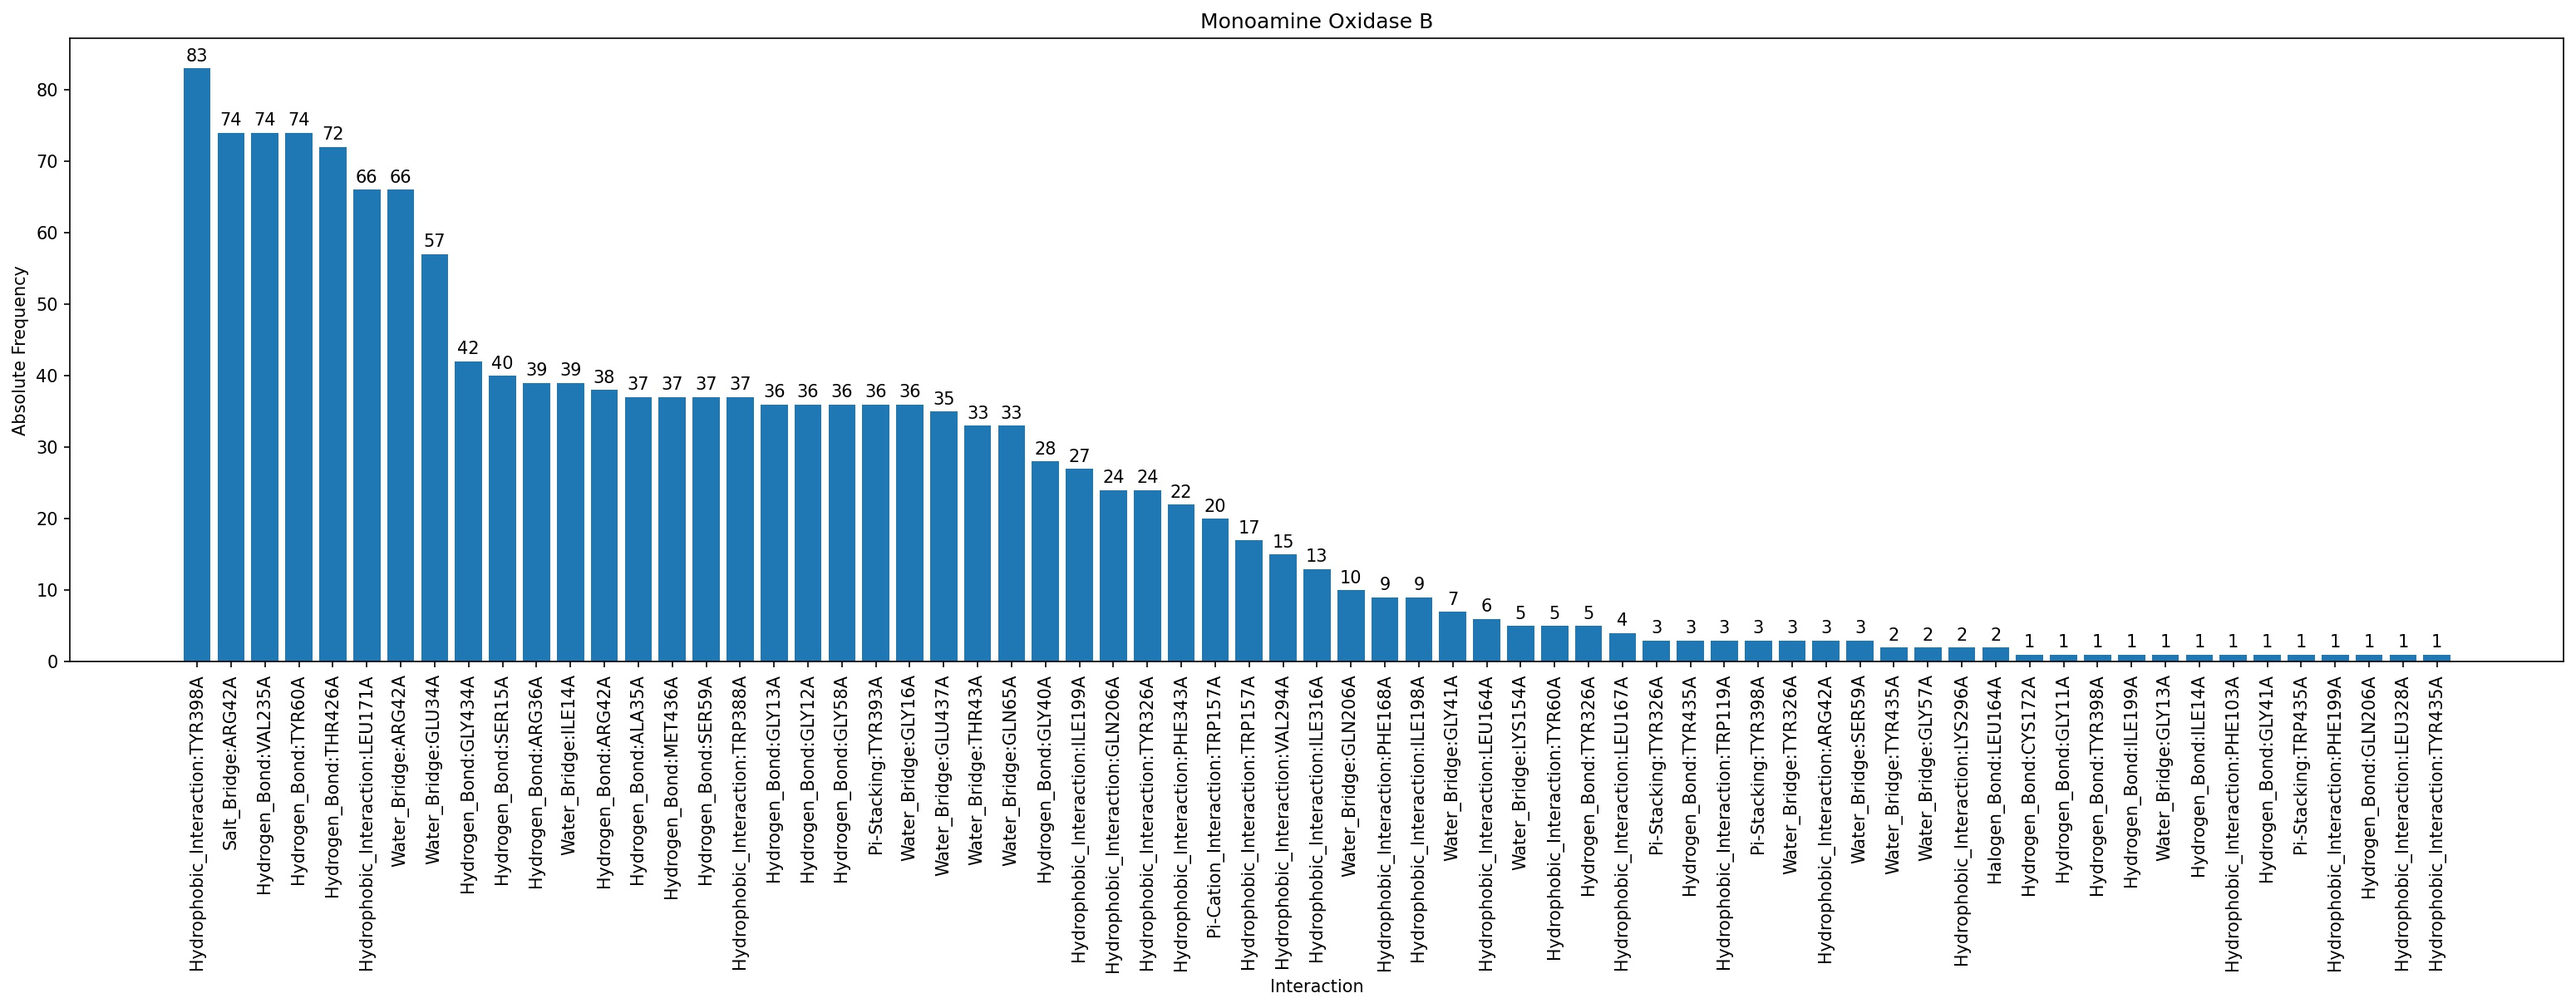
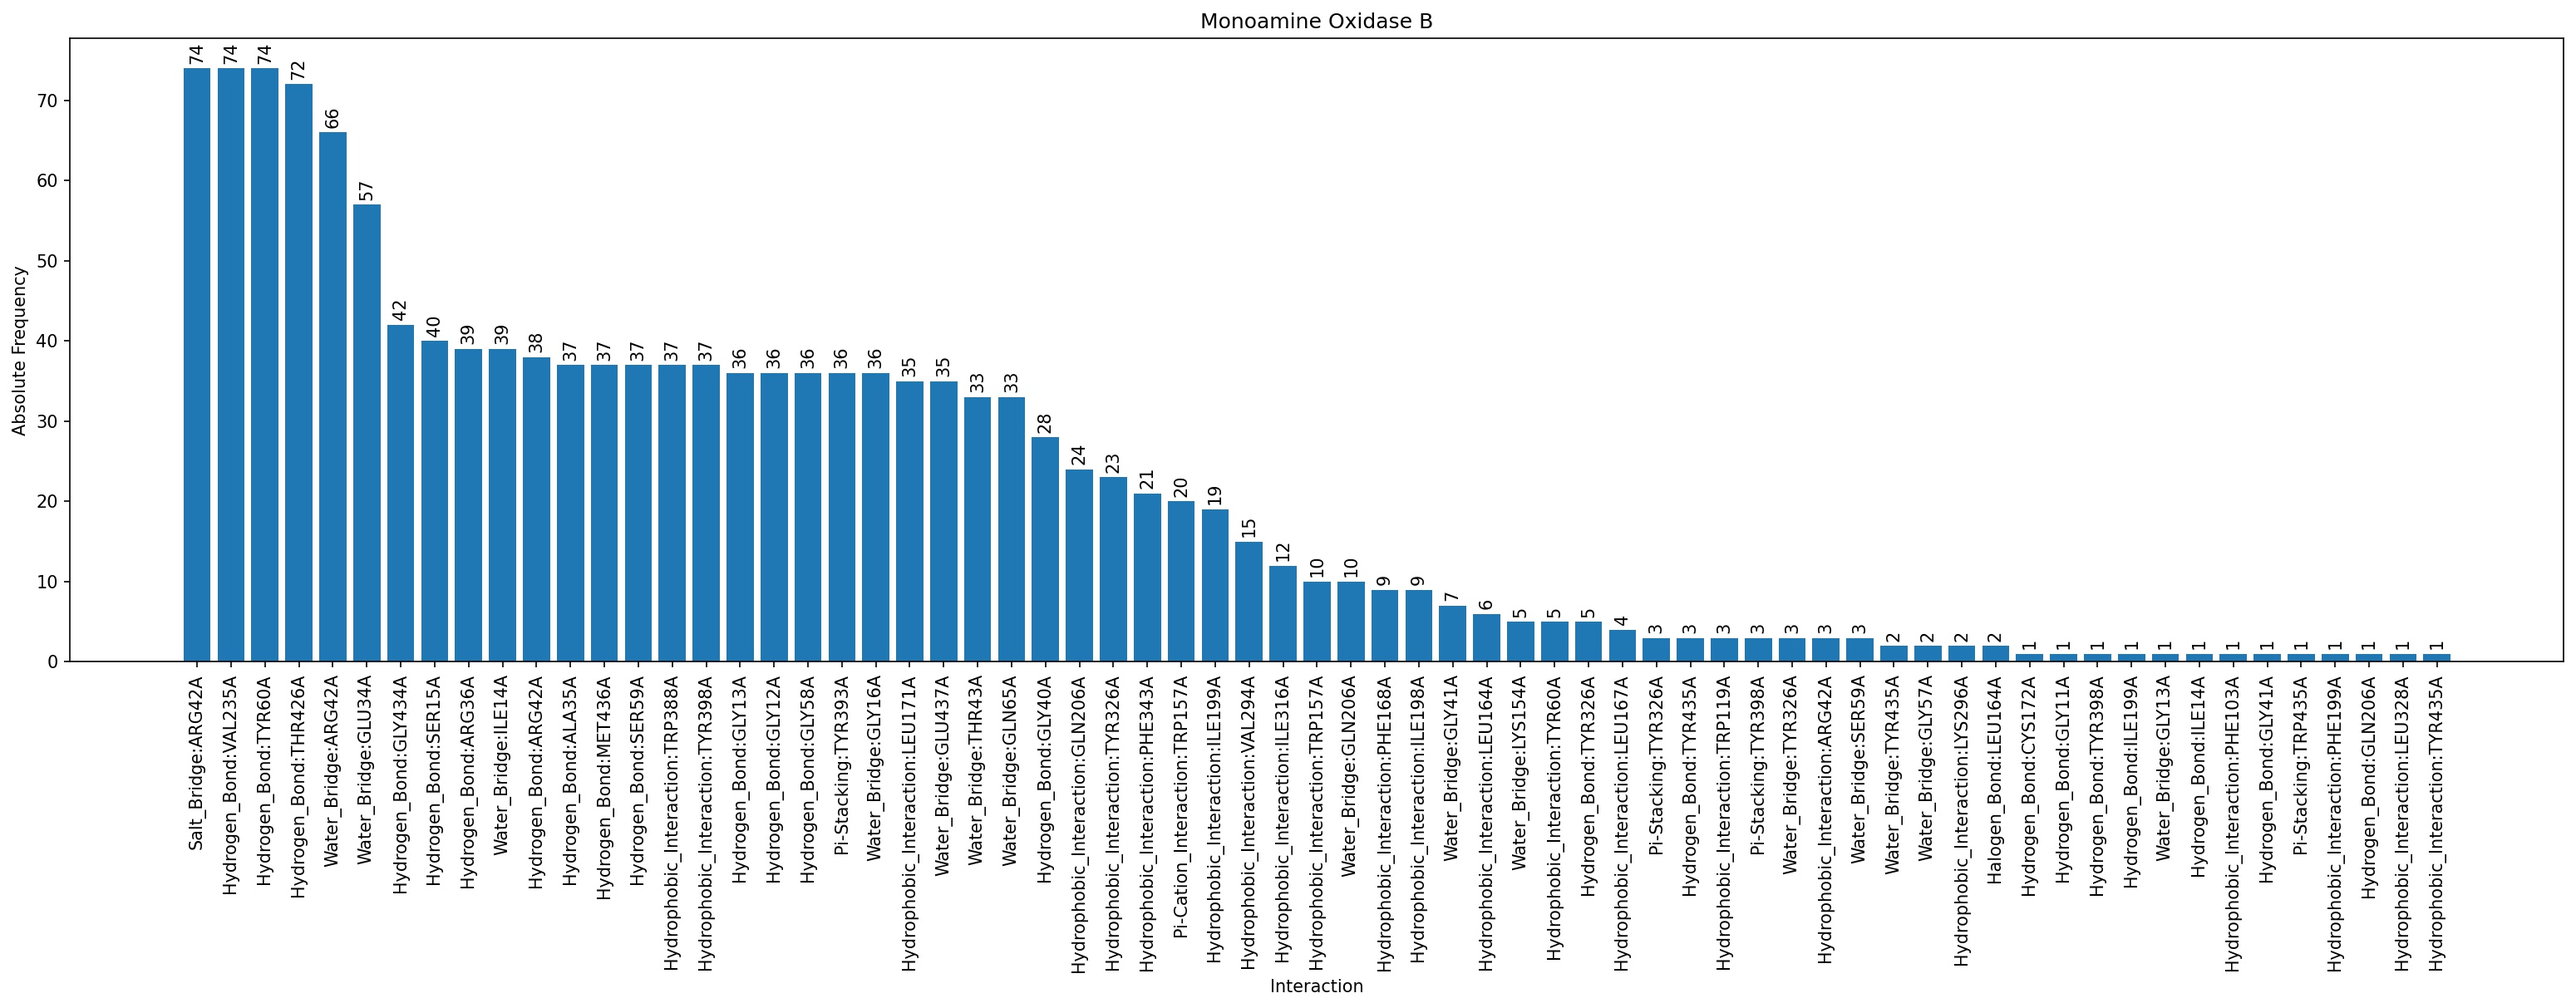
bump Monoamine Oxidase B results to newer version

diff --git a/data/monoamine_oxidase_B/plip_analysis.py b/data/monoamine_oxidase_B/plip_analysis.py
@@ -22,13 +22,21 @@ if __name__ == '__main__':
     PDB_ENTRIES = list(df["PDB_ENTRY"])
     print("First 5 PDB entries:")
     print(PDB_ENTRIES[:5])
-    result = pa(PDB_ENTRIES, path = "structures")
+    result = pa(PDB_ENTRIES, path = "structures", normalize = False)
     r = result.save("results/monoamine_oxidase_B")
     print("Result saved in:")
     print(r)
     r = result.to_csv("results/monoamine_oxidase_B_freq.csv")
     result.plot("Monoamine Oxidase B", filename = "results/monoamine_oxidase_B.jpg")
     result.plot("Monoamine Oxidase B", filename = "results/monoamine_oxidase_B.png")
+    # normalized results
+    result = pa(PDB_ENTRIES, path = "structures", normalize = True)
+    r = result.save("results/monoamine_oxidase_B_normalized")
+    print("Result saved in:")
+    print(r)
+    r = result.to_csv("results/monoamine_oxidase_B_normalized_freq.csv")
+    result.plot("Monoamine Oxidase B", filename = "results/monoamine_oxidase_B_normalized.jpg")
+    result.plot("Monoamine Oxidase B", filename = "results/monoamine_oxidase_B_normalized.png")
 
     # clean up
     os.remove("PLIPAnalyzer.py")
